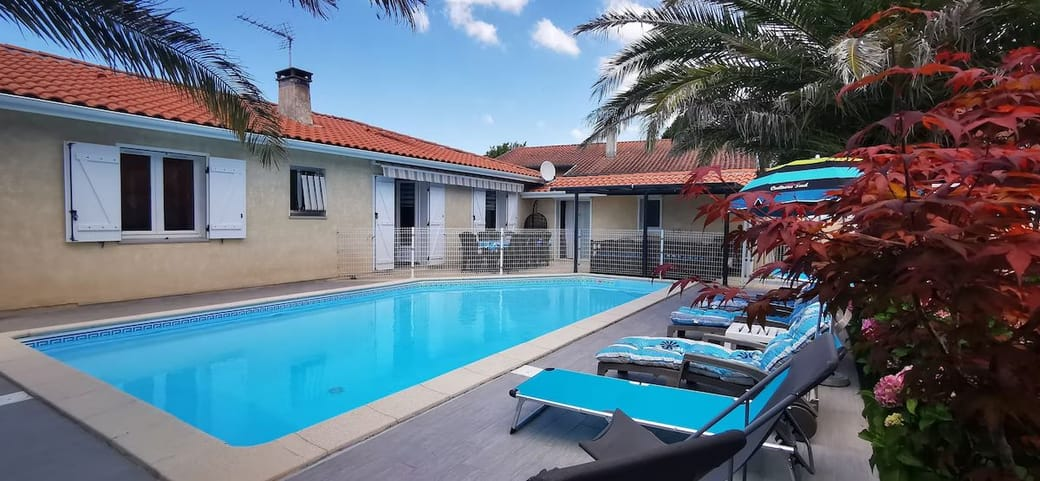
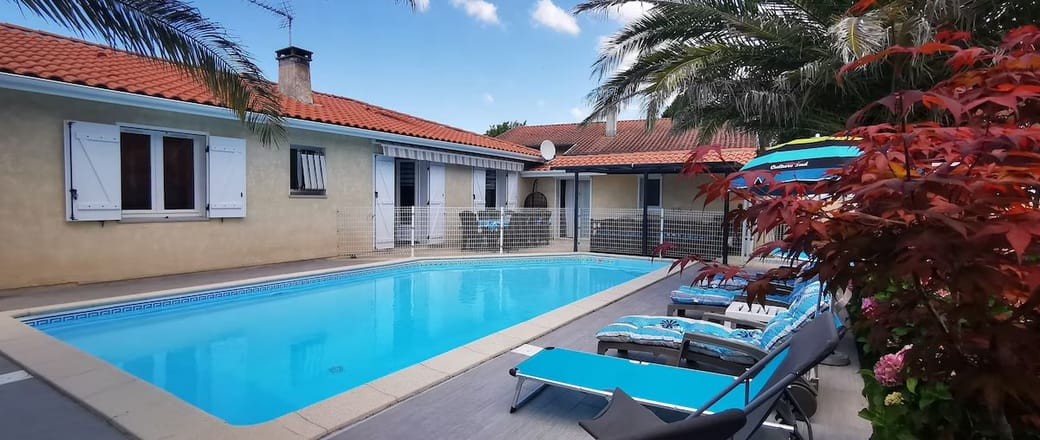
Campagne tombola : refondre l email de remerciement pour le partage
L email etait trop nu pour donner envie de partager : du texte, un bouton,
aucune image. Refonte autour de ce qui declenche un partage.

Ce qu'il y a a gagner passe en premier, en photo pleine largeur, avant tout
texte : la villa du gros lot, avec sa legende sur bandeau vert fonce. Suit
une bande de trois chiffres lisibles en une seconde, 38 lots, 5 € le billet,
tirage le 3 octobre.

Le merci vient ensuite, puis ce que l argent finance, illustre par une photo
d atelier. On ne partage pas une cagnotte, on partage une cause qu on voit.

Le bloc de partage devient le point d ancrage visuel : pose sur le vert
fonce, avec un bouton ocre pleine largeur et le message pret a copier dans
un encadre blanc, la ou il n etait qu un bouton parmi d autres. Le partage
sur les reseaux reste en second, sur une ligne, en boutons discrets a
simple filet.

Deux visuels ajoutes, convertis en JPEG progressif depuis les WebP du site
qu Outlook desktop ne sait pas afficher : la photo d atelier en 1040x400 et
64 Ko, la villa recadree en 1040x440 et 86 Ko.

Verifie : les trois images chargent, aucun texte sous le seuil AA une fois
les exemptions de texte large prises en compte, 600 px sans debordement.

diff --git a/emails/tombola-merci-participants.html b/emails/tombola-merci-participants.html
@@ -1,80 +1,132 @@
 <!-- Campagne : remerciement aux acheteurs de billets de tombola, et invitation
-     à faire circuler autour d'eux.
-     Destinée à la liste 005 - Tombola, alimentée depuis l'export HelloAsso.
+     a faire circuler autour d'eux.
+     Destinee a la liste 005 - Tombola, alimentee depuis l'export HelloAsso.
 
-     Pourquoi pas 001-NEWSLETTERS : acheter un billet n'est pas consentir à la
-     lettre d'information. Écrire à ces gens au sujet de la tombola est
-     légitime, cela concerne leur propre participation ; les basculer dans la
-     lettre générale ne le serait pas. Voir docs/brevo.md.
+     Pourquoi pas 001-NEWSLETTERS : acheter un billet n'est pas consentir a la
+     lettre d'information. Ecrire a ces gens au sujet de la tombola est
+     legitime, cela concerne leur propre participation ; les basculer dans la
+     lettre generale ne le serait pas. Voir docs/brevo.md.
 
-     Une seule action principale - transmettre le lien - et une action
-     secondaire d'une ligne : partager la vidéo. Deux demandes de même poids
-     se seraient affaiblies mutuellement.
+     Structure pensee pour le partage, dans cet ordre :
+       1. ce qu'il y a a gagner, en photo, avant tout texte ;
+       2. trois chiffres scannables en une seconde ;
+       3. le merci, puis ce que l'argent finance, avec une photo d'atelier :
+          on ne partage pas une cagnotte, on partage une cause qu'on voit ;
+       4. le bloc de partage, pose sur le vert fonce pour qu'il soit le point
+          d'ancrage visuel de l'email et non un bouton parmi d'autres ;
+       5. le partage sur les reseaux, en second et sur une ligne.
 
-     Mêmes contraintes que les autres emails : tableaux, styles en ligne,
+     Une seule action principale, transmettre le lien. Deux demandes de meme
+     poids se seraient affaiblies mutuellement.
+
+     Memes contraintes que les autres emails : tableaux, styles en ligne,
      600 px, pas de police web, JPEG ou PNG servis par le site, fonds
      explicites. Voir emails/newsletter-bienvenue.html.
 
      Les URL sociales sont nettoyees de leurs jetons de partage : celui de
-     l'Instagram (`stkn`, `utm_source=ig_web_copy_link`) est propre a la
-     session de qui a copie le lien, il n'a rien a faire dans un envoi de
-     masse. -->
+     l'Instagram (stkn, utm_source=ig_web_copy_link) est propre a la session
+     de qui a copie le lien, il n'a rien a faire dans un envoi de masse.
+
+     L'affiche de la tombola n'est pas utilisee : elle annonce 4000 € alors que
+     la dotation est de plus de 4 500 €. Ecart connu et assume, mais la placer
+     ici la ferait contredire le texte voisin. -->
 <table role="presentation" width="100%" cellpadding="0" cellspacing="0" border="0" style="background-color:#EFEBDF;margin:0;padding:0;">
   <tr>
     <td align="center" style="padding:24px 12px;">
 
       <div style="display:none;max-height:0;overflow:hidden;opacity:0;color:transparent;height:0;width:0;">
-        Ce que votre billet finance, et comment nous aider à aller plus loin.
+        Ce que votre billet finance, et le service que vous pouvez nous rendre en deux minutes.
       </div>
 
       <table role="presentation" width="600" cellpadding="0" cellspacing="0" border="0" style="width:600px;max-width:100%;background-color:#FFFFFF;border-collapse:collapse;">
 
         <!-- Bandeau -->
         <tr>
-          <td align="center" style="background-color:#404C2F;padding:28px 24px;">
+          <td align="center" style="background-color:#404C2F;padding:24px 24px 20px 24px;">
             <img src="https://www.ressourcesrecyclerie.fr/logos/logo-ressources-192.png"
-                 width="84" height="84" alt=""
-                 style="display:block;border:0;outline:none;text-decoration:none;width:84px;height:auto;background-color:#404C2F;color:#FFFFFF;font-family:Helvetica,Arial,sans-serif;font-size:11px;">
-            <div style="font-family:'Open Sans',Helvetica,Arial,sans-serif;font-size:20px;font-weight:700;color:#FFFFFF;letter-spacing:0.04em;padding-top:12px;">
+                 width="72" height="72" alt=""
+                 style="display:block;border:0;outline:none;text-decoration:none;width:72px;height:auto;background-color:#404C2F;color:#FFFFFF;font-family:Helvetica,Arial,sans-serif;font-size:11px;">
+            <div style="font-family:'Open Sans',Helvetica,Arial,sans-serif;font-size:18px;font-weight:700;color:#FFFFFF;letter-spacing:0.04em;padding-top:10px;">
               RESSOURCES
             </div>
-            <div style="font-family:'Open Sans',Helvetica,Arial,sans-serif;font-size:11px;color:#FFFFFF;letter-spacing:0.22em;padding-top:5px;text-transform:uppercase;">
+            <div style="font-family:'Open Sans',Helvetica,Arial,sans-serif;font-size:10px;color:#FFFFFF;letter-spacing:0.22em;padding-top:4px;text-transform:uppercase;">
               Recyclerie solidaire
             </div>
           </td>
         </tr>
 
+        <!-- Ce qu'il y a a gagner, avant tout texte -->
+        <tr>
+          <td style="font-size:0;line-height:0;">
+            <img src="https://www.ressourcesrecyclerie.fr/photos/email-tombola-villa.jpg"
+                 width="600" alt="Le gros lot : une villa avec piscine sur la côte landaise."
+                 style="display:block;border:0;outline:none;text-decoration:none;width:100%;max-width:600px;height:auto;">
+          </td>
+        </tr>
+        <tr>
+          <td align="center" style="background-color:#2B3520;padding:14px 24px;">
+            <div style="font-family:'Open Sans',Helvetica,Arial,sans-serif;font-size:10px;font-weight:700;letter-spacing:0.18em;text-transform:uppercase;color:#C4C28F;padding-bottom:5px;">
+              Le gros lot
+            </div>
+            <div style="font-family:Georgia,'Times New Roman',serif;font-size:17px;line-height:1.4;color:#FFFFFF;">
+              Une semaine en villa avec piscine, sur la côte landaise
+            </div>
+          </td>
+        </tr>
+
+        <!-- Trois chiffres scannables -->
+        <tr>
+          <td style="background-color:#EDECCE;padding:20px 24px;">
+            <table role="presentation" width="100%" cellpadding="0" cellspacing="0" border="0">
+              <tr>
+                <td align="center" width="33%" style="font-family:Georgia,'Times New Roman',serif;font-size:30px;line-height:1.1;color:#726E24;">
+                  38
+                  <div style="font-family:'Open Sans',Helvetica,Arial,sans-serif;font-size:11px;font-weight:700;letter-spacing:0.12em;text-transform:uppercase;color:#404C2F;padding-top:6px;">lots</div>
+                </td>
+                <td align="center" width="34%" style="font-family:Georgia,'Times New Roman',serif;font-size:30px;line-height:1.1;color:#726E24;border-left:1px solid #C4C28F;border-right:1px solid #C4C28F;">
+                  5&nbsp;&euro;
+                  <div style="font-family:'Open Sans',Helvetica,Arial,sans-serif;font-size:11px;font-weight:700;letter-spacing:0.12em;text-transform:uppercase;color:#404C2F;padding-top:6px;">le billet</div>
+                </td>
+                <td align="center" width="33%" style="font-family:Georgia,'Times New Roman',serif;font-size:30px;line-height:1.1;color:#726E24;">
+                  3 oct
+                  <div style="font-family:'Open Sans',Helvetica,Arial,sans-serif;font-size:11px;font-weight:700;letter-spacing:0.12em;text-transform:uppercase;color:#404C2F;padding-top:6px;">tirage public</div>
+                </td>
+              </tr>
+            </table>
+          </td>
+        </tr>
+
         <!-- Merci -->
         <tr>
-          <td style="padding:36px 40px 4px 40px;">
-            <h1 style="margin:0 0 18px 0;font-family:Georgia,'Times New Roman',serif;font-size:26px;line-height:1.25;font-weight:400;color:#2B3520;">
+          <td style="padding:34px 40px 0 40px;">
+            <h1 style="margin:0 0 16px 0;font-family:Georgia,'Times New Roman',serif;font-size:26px;line-height:1.25;font-weight:400;color:#2B3520;">
               Merci. Votre billet compte plus que vous ne le croyez.
             </h1>
             <p style="margin:0 0 16px 0;font-family:'Open Sans',Helvetica,Arial,sans-serif;font-size:15px;line-height:1.65;color:#404C2F;">
-              Bonjour,
-            </p>
-            <p style="margin:0 0 16px 0;font-family:'Open Sans',Helvetica,Arial,sans-serif;font-size:15px;line-height:1.65;color:#404C2F;">
-              Vous avez pris un billet pour la tombola solidaire de l'association
-              Ressources. Merci - sincèrement. Vous n'avez pas seulement tenté
-              votre chance : vous avez mis quelque chose dans une recyclerie qui
-              n'existe pas encore tout à fait.
+              Vous n'avez pas seulement tenté votre chance : vous avez mis quelque
+              chose dans une recyclerie qui n'existe pas encore tout à fait.
             </p>
           </td>
         </tr>
 
-        <!-- Ce que les fonds decident -->
+        <!-- Ce que l'argent finance, en image -->
         <tr>
-          <td style="padding:22px 40px 0 40px;">
+          <td style="padding:14px 40px 0 40px;">
             <table role="presentation" width="100%" cellpadding="0" cellspacing="0" border="0" style="border-collapse:collapse;">
               <tr>
-                <td width="3" style="width:3px;background-color:#C49845;font-size:0;line-height:0;">&nbsp;</td>
-                <td style="background-color:#EDECCE;padding:22px 24px;">
+                <td style="font-size:0;line-height:0;">
+                  <img src="https://www.ressourcesrecyclerie.fr/photos/email-atelier.jpg"
+                       width="520" alt="Un ordinateur portable démonté sur l'établi, pièce par pièce."
+                       style="display:block;border:0;outline:none;text-decoration:none;width:100%;max-width:520px;height:auto;">
+                </td>
+              </tr>
+              <tr>
+                <td style="background-color:#EDECCE;padding:20px 22px;">
                   <p style="margin:0 0 12px 0;font-family:'Open Sans',Helvetica,Arial,sans-serif;font-size:15px;line-height:1.65;color:#404C2F;">
-                    Soyons directs : <strong>ce que nous pourrons déployer dépend de
-                    ce que nous réunirons d'ici le 3 octobre.</strong> L'équipement de
-                    l'atelier, les postes de diagnostic, de quoi transporter le
-                    matériel collecté - chaque billet vendu élargit ce que nous
-                    pourrons faire dès les premiers mois.
+                    Voilà ce que votre billet finance : un établi, des outils, des
+                    postes de diagnostic, de quoi transporter le matériel collecté.
+                    <strong>Ce que nous pourrons déployer dépend directement de ce
+                    que nous réunirons d'ici le 3 octobre.</strong>
                   </p>
                   <p style="margin:0;font-family:'Open Sans',Helvetica,Arial,sans-serif;font-size:14px;line-height:1.6;color:#404C2F;">
                     100 % des fonds vont à la recyclerie. Rien ne part ailleurs.
@@ -85,61 +137,58 @@
           </td>
         </tr>
 
-        <!-- L action principale -->
+        <!-- Le partage : point d'ancrage visuel de l'email -->
         <tr>
           <td style="padding:30px 40px 0 40px;">
-            <div style="font-family:'Open Sans',Helvetica,Arial,sans-serif;font-size:11px;font-weight:700;letter-spacing:0.16em;text-transform:uppercase;color:#726E24;padding-bottom:10px;">
-              Le vrai service que vous pouvez nous rendre
-            </div>
-            <p style="margin:0 0 16px 0;font-family:'Open Sans',Helvetica,Arial,sans-serif;font-size:15px;line-height:1.65;color:#404C2F;">
-              Transmettez ce lien à trois personnes autour de vous. Un message à
-              votre famille, à des collègues, à un groupe WhatsApp : venant de
-              vous, il portera infiniment plus loin que tout ce que nous pourrions
-              publier nous-mêmes.
-            </p>
-          </td>
-        </tr>
-
-        <tr>
-          <td align="center" style="padding:4px 40px 8px 40px;">
-            <table role="presentation" cellpadding="0" cellspacing="0" border="0">
+            <table role="presentation" width="100%" cellpadding="0" cellspacing="0" border="0" style="background-color:#404C2F;border-collapse:collapse;">
               <tr>
-                <td align="center" bgcolor="#C49845" style="background-color:#C49845;">
-                  <a href="https://www.ressourcesrecyclerie.fr/soutenir/tombola/?utm_source=partage"
-                     style="display:inline-block;padding:14px 30px;font-family:'Open Sans',Helvetica,Arial,sans-serif;font-size:14px;font-weight:700;letter-spacing:0.04em;color:#2B3520;text-decoration:none;">
-                    Le lien à partager
-                  </a>
+                <td style="padding:28px 26px 26px 26px;">
+                  <div style="font-family:'Open Sans',Helvetica,Arial,sans-serif;font-size:10px;font-weight:700;letter-spacing:0.18em;text-transform:uppercase;color:#C4C28F;padding-bottom:8px;">
+                    Le vrai service que vous pouvez nous rendre
+                  </div>
+                  <div style="font-family:Georgia,'Times New Roman',serif;font-size:23px;line-height:1.3;color:#FFFFFF;padding-bottom:12px;">
+                    Transmettez ce lien à trois personnes.
+                  </div>
+                  <p style="margin:0 0 20px 0;font-family:'Open Sans',Helvetica,Arial,sans-serif;font-size:15px;line-height:1.65;color:#FFFFFF;">
+                    Un message à votre famille, à des collègues, à un groupe
+                    WhatsApp. Venant de vous, il portera infiniment plus loin que
+                    tout ce que nous pourrions publier nous-mêmes.
+                  </p>
+
+                  <table role="presentation" width="100%" cellpadding="0" cellspacing="0" border="0">
+                    <tr>
+                      <td align="center" bgcolor="#C49845" style="background-color:#C49845;">
+                        <a href="https://www.ressourcesrecyclerie.fr/soutenir/tombola/?utm_source=partage"
+                           style="display:block;padding:16px 24px;font-family:'Open Sans',Helvetica,Arial,sans-serif;font-size:15px;font-weight:700;letter-spacing:0.03em;color:#2B3520;text-decoration:none;text-align:center;">
+                          Ouvrir la page à partager
+                        </a>
+                      </td>
+                    </tr>
+                  </table>
+
+                  <p style="margin:22px 0 10px 0;font-family:'Open Sans',Helvetica,Arial,sans-serif;font-size:13px;line-height:1.6;color:#C4C28F;">
+                    Pas envie de chercher quoi écrire ? Copiez ce message :
+                  </p>
+                  <table role="presentation" width="100%" cellpadding="0" cellspacing="0" border="0" style="border-collapse:collapse;">
+                    <tr>
+                      <td style="background-color:#FFFFFF;padding:18px 20px;font-family:Georgia,'Times New Roman',serif;font-size:15px;line-height:1.7;color:#2B3520;">
+                        Je viens de prendre un billet pour la tombola de Ressources,
+                        la recyclerie solidaire qui ouvre dans les Landes. 5 &euro; le
+                        billet, plus de 4 500 &euro; de lots, et tout part dans le
+                        projet. Tirage le 3 octobre :
+                        https://www.ressourcesrecyclerie.fr/soutenir/tombola/
+                      </td>
+                    </tr>
+                  </table>
                 </td>
               </tr>
             </table>
           </td>
         </tr>
 
-        <!-- Message tout pret -->
+        <!-- Les reseaux, en second -->
         <tr>
-          <td style="padding:16px 40px 0 40px;">
-            <p style="margin:0 0 10px 0;font-family:'Open Sans',Helvetica,Arial,sans-serif;font-size:14px;line-height:1.6;color:#726E24;">
-              Pas envie de chercher quoi écrire ? Copiez ceci :
-            </p>
-            <table role="presentation" width="100%" cellpadding="0" cellspacing="0" border="0" style="border-collapse:collapse;">
-              <tr>
-                <td style="background-color:#E5E4D5;padding:18px 20px;font-family:Georgia,'Times New Roman',serif;font-size:15px;line-height:1.7;color:#2B3520;font-style:italic;">
-                  « Je viens de prendre un billet pour la tombola de Ressources,
-                  la recyclerie solidaire qui ouvre dans les Landes. 5 €, plus de
-                  4 500 € de lots, et tout part dans le projet. Tirage le 3 octobre :
-                  https://www.ressourcesrecyclerie.fr/soutenir/tombola/ »
-                </td>
-              </tr>
-            </table>
-          </td>
-        </tr>
-
-        <!-- L action secondaire -->
-        <tr>
-          <td style="padding:26px 40px 0 40px;">
-            <table role="presentation" width="100%" cellpadding="0" cellspacing="0" border="0" style="border-top:1px solid #C4C28F;">
-              <tr><td style="height:22px;line-height:22px;font-size:0;">&nbsp;</td></tr>
-            </table>
+          <td style="padding:24px 40px 0 40px;">
             <p style="margin:0 0 12px 0;font-family:'Open Sans',Helvetica,Arial,sans-serif;font-size:14px;line-height:1.6;color:#404C2F;">
               Et si vous êtes sur les réseaux, partager notre vidéo prend cinq
               secondes et l'aide beaucoup à circuler :
@@ -149,10 +198,10 @@
                 <td style="padding-right:10px;">
                   <table role="presentation" cellpadding="0" cellspacing="0" border="0">
                     <tr>
-                      <td align="center" bgcolor="#404C2F" style="background-color:#404C2F;">
+                      <td align="center" style="border:1px solid #726E24;">
                         <a href="https://www.facebook.com/reel/896677119972690"
-                           style="display:inline-block;padding:11px 22px;font-family:'Open Sans',Helvetica,Arial,sans-serif;font-size:13px;font-weight:700;color:#FFFFFF;text-decoration:none;">
-                          Sur Facebook
+                           style="display:inline-block;padding:11px 22px;font-family:'Open Sans',Helvetica,Arial,sans-serif;font-size:13px;font-weight:700;color:#404C2F;text-decoration:none;">
+                          Partager sur Facebook
                         </a>
                       </td>
                     </tr>
@@ -161,10 +210,10 @@
                 <td>
                   <table role="presentation" cellpadding="0" cellspacing="0" border="0">
                     <tr>
-                      <td align="center" bgcolor="#404C2F" style="background-color:#404C2F;">
+                      <td align="center" style="border:1px solid #726E24;">
                         <a href="https://www.instagram.com/reel/Dc_ALXtIrq9/"
-                           style="display:inline-block;padding:11px 22px;font-family:'Open Sans',Helvetica,Arial,sans-serif;font-size:13px;font-weight:700;color:#FFFFFF;text-decoration:none;">
-                          Sur Instagram
+                           style="display:inline-block;padding:11px 22px;font-family:'Open Sans',Helvetica,Arial,sans-serif;font-size:13px;font-weight:700;color:#404C2F;text-decoration:none;">
+                          Partager sur Instagram
                         </a>
                       </td>
                     </tr>
@@ -178,13 +227,13 @@
         <!-- Le tirage -->
         <tr>
           <td style="padding:28px 40px 0 40px;">
-            <div style="font-family:'Open Sans',Helvetica,Arial,sans-serif;font-size:11px;font-weight:700;letter-spacing:0.16em;text-transform:uppercase;color:#726E24;padding-bottom:10px;">
-              Samedi 3 octobre 2026
-            </div>
+            <table role="presentation" width="100%" cellpadding="0" cellspacing="0" border="0" style="border-top:1px solid #C4C28F;">
+              <tr><td style="height:22px;line-height:22px;font-size:0;">&nbsp;</td></tr>
+            </table>
             <p style="margin:0 0 14px 0;font-family:'Open Sans',Helvetica,Arial,sans-serif;font-size:15px;line-height:1.65;color:#404C2F;">
-              Le tirage a lieu en public à Vielle-Saint-Girons, le jour du
-              lancement de la recyclerie. Vous n'avez pas besoin d'être présent :
-              en cas de gain, nous vous contactons directement.
+              Le tirage a lieu en public à Vielle-Saint-Girons le samedi 3 octobre,
+              le jour du lancement de la recyclerie. Vous n'avez pas besoin d'être
+              présent : en cas de gain, nous vous contactons directement.
             </p>
             <p style="margin:0 0 26px 0;font-family:'Open Sans',Helvetica,Arial,sans-serif;font-size:14px;line-height:1.7;color:#404C2F;">
               <a href="https://www.ressourcesrecyclerie.fr/evenement-lancement-03-octobre-2026/" style="color:#726E24;text-decoration:underline;">Le programme de la journée</a>
